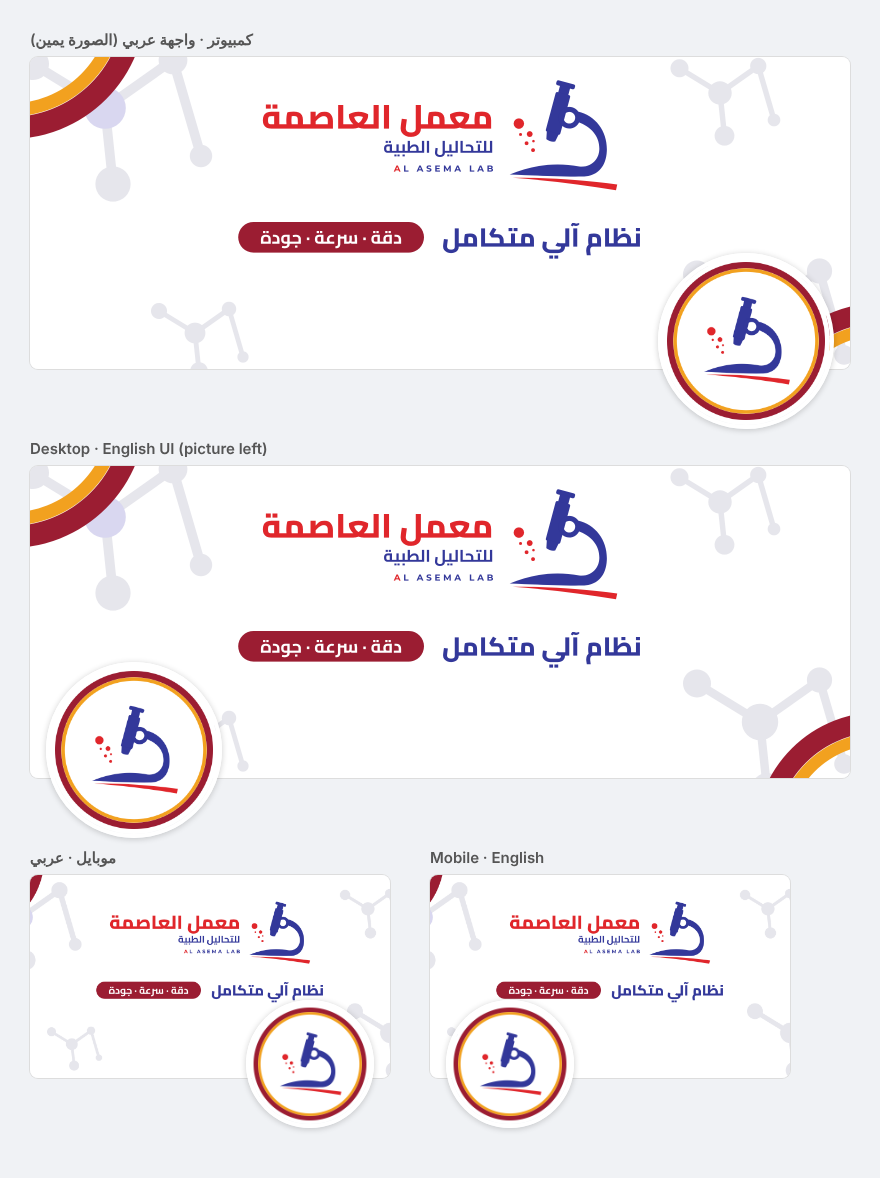
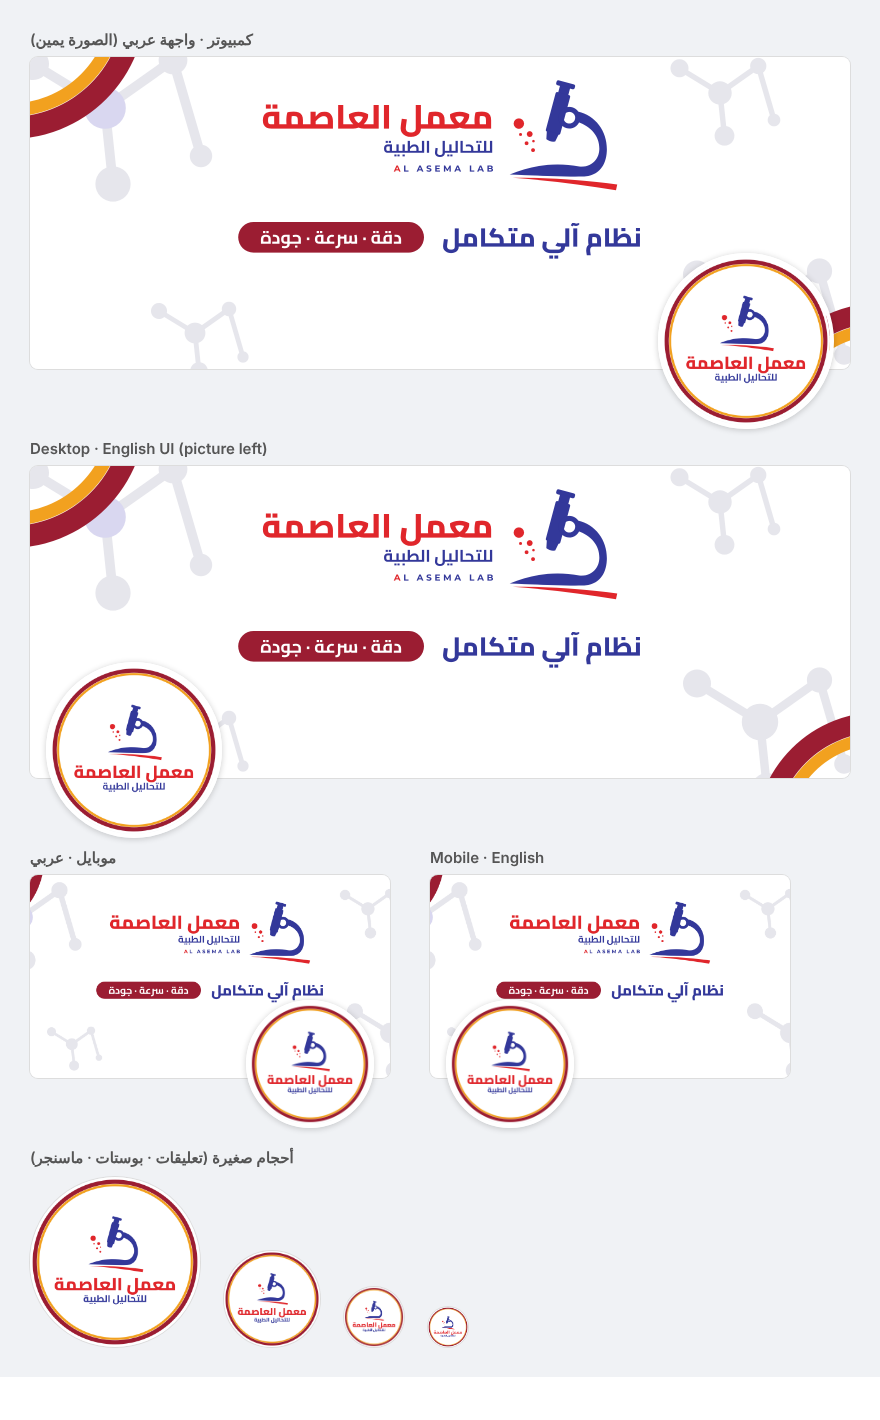
Add Facebook profile picture with the lab name
Mark plus Arabic name sized to stay inside the circle crop and legible at
small sizes, with a thin double ring and a plain version.

Claude-Session: https://claude.ai/code/session_01SKwN4VZjUEAKoTaiWG8ucy

diff --git a/brand/al-asema-lab/make_social.py b/brand/al-asema-lab/make_social.py
@@ -89,9 +89,43 @@ def profile(ring):
     return svg(S, S, "".join(body))
 
 
+def profile_named(ring):
+    """Mark + Arabic name, sized for a circle crop and legible at small sizes."""
+    S, c = 1080, 540
+    R = 474 if ring else 505  # usable radius inside the ring / circle
+    body = [f'<rect width="{S}" height="{S}" fill="{WHITE}"/>']
+    if ring:
+        body.append(f'<circle cx="540" cy="540" r="510" fill="none" stroke="{BURGUNDY}" stroke-width="26"/>')
+        body.append(f'<circle cx="540" cy="540" r="488" fill="none" stroke="{ORANGE}" stroke-width="14"/>')
+    name, sub = "معمل العاصمة", "للتحاليل الطبية"
+    k = R / 430
+    nsz, ssz = 102 * k, 56 * k
+    nw = CAIRO_XB.width(name, nsz, rtl=True)
+    sw = CAIRO_B.width(sub, ssz, rtl=True)
+    ms = 320 * k / MARK_W
+    mh = MARK_H * ms
+    gap1, gap2 = 22 * k, 6 * k
+    name_h, sub_h = nsz * 1.0, ssz * 1.05
+    total = mh + gap1 + name_h + gap2 + sub_h
+    top = c - total / 2 - 10 * k
+    body.append(mark(BLUE, RED, c - MARK_W * ms / 2 + 6 * k, top, ms))
+    nb = top + mh + gap1 + nsz * 0.82
+    body.append(f'<path fill="{RED}" d="{CAIRO_XB.path(name, nsz, c - nw / 2, nb, rtl=True)}"/>')
+    sb = nb + gap2 + ssz * 1.1
+    body.append(f'<path fill="{BLUE}" d="{CAIRO_B.path(sub, ssz, c - sw / 2, sb, rtl=True)}"/>')
+    # every text corner must sit inside the usable circle
+    import math
+    for w, y in ((nw, nb - nsz * 0.75), (nw, nb + nsz * 0.25), (sw, sb + ssz * 0.35)):
+        d = math.hypot(w / 2, y - c)
+        assert d < R, (w, y, d, R)
+    return svg(S, S, "".join(body))
+
+
 if __name__ == "__main__":
     OUT.mkdir(exist_ok=True)
     (OUT / "facebook-cover.svg").write_text(cover())
     (OUT / "facebook-profile.svg").write_text(profile(ring=True))
     (OUT / "facebook-profile-plain.svg").write_text(profile(ring=False))
+    (OUT / "facebook-profile-name.svg").write_text(profile_named(ring=True))
+    (OUT / "facebook-profile-name-plain.svg").write_text(profile_named(ring=False))
     print("wrote", OUT)

diff --git a/brand/al-asema-lab/README.md b/brand/al-asema-lab/README.md
@@ -38,6 +38,8 @@ Cover elements: the burgundy + gold double ring (photo frame), the burgundy pill
 
 | File | Use |
 |---|---|
+| `social/facebook-profile-name.png` | **main profile picture**: mark + lab name inside a thin double ring, circle-safe |
+| `social/facebook-profile-name-plain.png` | same without the ring |
 | `social/facebook-profile.png` | profile picture, 1080x1080, mark inside the cover's double ring, circle-safe |
 | `social/facebook-profile-plain.png` | same without the ring |
 | `social/facebook-cover.png` | cover, 1640x720: fits desktop (820x312) and mobile (640x360); content stays clear of the profile circle in Arabic and English layouts |
